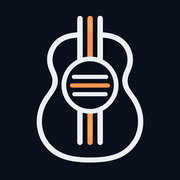
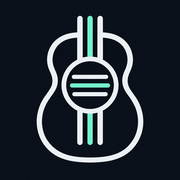
色を青とミントグリーンに変更し、ロゴの差し色も合わせる
- 背景を、紺の地に左上から青・右下からミントグリーンの光が差す固定の配色にする
  （曲ごとのサムネイルをぼかして敷く方式はやめる）
- 差し色をオレンジからミントグリーンに変更
- ロゴ（ホーム画面用・タブ用・ヘッダー）のオレンジの線をミントグリーンに描き替え

Changed region(s): [[0.4722, 0.0833, 0.5278, 0.3333], [0.3889, 0.4444, 0.6111, 0.5], [0.4722, 0.6111, 0.5278, 0.8056]]

diff --git a/index.html b/index.html
@@ -8,20 +8,20 @@
 <link rel="icon" type="image/png" sizes="32x32" href="favicon-32.png">
 <link rel="apple-touch-icon" href="apple-touch-icon.png">
 <link rel="manifest" href="manifest.webmanifest">
-<meta name="theme-color" content="#0A0E15">
+<meta name="theme-color" content="#08111F">
 <meta name="color-scheme" content="dark">
 <link rel="preconnect" href="https://fonts.googleapis.com">
 <link rel="preconnect" href="https://fonts.gstatic.com" crossorigin>
 <link rel="stylesheet" href="https://fonts.googleapis.com/css2?family=Figtree:wght@500;600;700;800&family=Zen+Kaku+Gothic+New:wght@500;700;900&display=swap">
 <style>
 /* 見た目の方針: 音楽プレーヤーのような暗い画面。主役は大きく太い歌詞で、ほかは静かにする。
-   背景には曲ごとに動画のサムネイルをぼかして敷き、曲で色味が変わる。色はロゴの紺・白・オレンジ。
+   背景は紺の地に、左上から青、右下からミントグリーンの光。差し色もミントグリーンで、ロゴと同じ色。
    layout: 左(スマホは上)=TAB譜つきYouTube動画と再生操作、右(スマホは下)=動画に同期して流れる歌詞と訳 */
 :root{
-  --bg:#0A0E15; --fg:#F3F5F8; --dim:rgba(243,245,248,.64); --faint:rgba(243,245,248,.4);
+  --bg:#08111F; --fg:#F3F5F8; --dim:rgba(243,245,248,.64); --faint:rgba(243,245,248,.4);
   --glass:rgba(255,255,255,.08); --glass2:rgba(255,255,255,.15); --line:rgba(255,255,255,.14);
-  --accent:#FF9D5C; --on-accent:#22130A; --accent-soft:rgba(255,157,92,.16); --danger:#FF8A80;
-  --sheet:#141A24; /* ダイアログなど、背景を透かさない面 */
+  --accent:#74F2CE; --on-accent:#06221A; --accent-soft:rgba(116,242,206,.16); --danger:#FF8A80;
+  --sheet:#0F1A2B; /* ダイアログなど、背景を透かさない面 */
   --cap-bg:#05070A; --cap-fg:#FFFFFF; --cap-dim:#C3CAD2; /* 字幕風の帯 */
   --muted:var(--dim); --surface:var(--sheet); --sunk:#05070A; --mark:var(--accent); --now:var(--accent); --now-soft:var(--accent-soft); --on-now:var(--on-accent);
   --f:"Figtree","Zen Kaku Gothic New","Hiragino Sans","Noto Sans JP",system-ui,sans-serif;
@@ -33,10 +33,8 @@
 html,body{height:100%;margin:0}
 html{overflow:hidden}
 body{display:flex;flex-direction:column;height:100dvh;background:var(--bg);color:var(--fg);font-family:var(--f);font-size:15px;line-height:1.5;overflow:hidden;-webkit-font-smoothing:antialiased}
-#bgart{position:fixed;inset:0;z-index:-2;overflow:hidden;opacity:0;transition:opacity .8s;pointer-events:none}
-#bgart::before{content:"";position:absolute;inset:-14%;background:var(--art,none) center/cover no-repeat;filter:blur(70px) saturate(1.6)}
-#bgart.on{opacity:.6}
-body::before{content:"";position:fixed;inset:0;z-index:-1;background:linear-gradient(180deg,rgba(10,14,21,.5),rgba(10,14,21,.84));pointer-events:none}
+#bgart{position:fixed;inset:0;z-index:-2;pointer-events:none;background:radial-gradient(70% 60% at 8% 0%,#2E6BFF 0%,rgba(46,107,255,0) 70%),radial-gradient(70% 60% at 96% 100%,#3EE6BE 0%,rgba(62,230,190,0) 70%),var(--bg)}
+body::before{content:"";position:fixed;inset:0;z-index:-1;background:linear-gradient(180deg,rgba(8,14,26,.42),rgba(8,14,26,.62));pointer-events:none}
 button,select,input,textarea{font:inherit;color:inherit}
 :focus-visible{outline:2px solid var(--accent);outline-offset:2px}
 .sr{position:absolute;width:1px;height:1px;overflow:hidden;clip-path:inset(50%);white-space:nowrap}
@@ -305,14 +303,14 @@ body.immersive.compact #list{text-align:center;padding-inline:52px;padding-block
   .syncbar .row .btn:not(#tapBtn){padding:6px 9px;font-size:.85rem}
   .fields{grid-template-columns:minmax(0,1fr)}
 }
-@media (prefers-reduced-motion:reduce){.row-l,#bgart,#playBtn,.btn{transition:none}}
+@media (prefers-reduced-motion:reduce){.row-l,#playBtn,.btn{transition:none}}
 </style>
 </head>
 <body>
 <div id="bgart" aria-hidden="true"></div>
 
 <header class="top">
-  <span class="brand"><svg viewBox="0 0 64 64" aria-hidden="true"><rect width="64" height="64" rx="14" fill="#0B111B"/><circle cx="32" cy="32" r="18.5" fill="none" stroke="#E7ECF1" stroke-width="5"/><path d="M23 23h18M23 41h18" fill="none" stroke="#E7ECF1" stroke-width="5" stroke-linecap="round"/><path d="M21 32h22" fill="none" stroke="#FF9D5C" stroke-width="5" stroke-linecap="round"/></svg>弾き語りプロンプター</span>
+  <span class="brand"><svg viewBox="0 0 64 64" aria-hidden="true"><rect width="64" height="64" rx="14" fill="#0B111B"/><circle cx="32" cy="32" r="18.5" fill="none" stroke="#E7ECF1" stroke-width="5"/><path d="M23 23h18M23 41h18" fill="none" stroke="#E7ECF1" stroke-width="5" stroke-linecap="round"/><path d="M21 32h22" fill="none" stroke="#74F2CE" stroke-width="5" stroke-linecap="round"/></svg>弾き語りプロンプター</span>
   <select id="songSel" aria-label="曲を選ぶ"></select>
   <span class="sp"></span>
   <button class="btn" id="editBtn" type="button">編集</button>
@@ -704,9 +702,8 @@ function load(song) {
   $('songSel').value = song ? song.id : ''; $('editBtn').disabled = !song;
   renderList(); updateLoopUi();
   $('npTitle').textContent = song ? (song.title || '無題') : '曲を追加してください'; $('npArtist').textContent = song ? (song.artist || '') : '';
-  const thumb = song && song.vid ? 'https://i.ytimg.com/vi/' + song.vid + '/mqdefault.jpg' : ''; // 動画のサムネイルを、曲名の横と背景のぼかしに使う
+  const thumb = song && song.vid ? 'https://i.ytimg.com/vi/' + song.vid + '/mqdefault.jpg' : ''; // 動画のサムネイルを曲名の横に出す
   $('art').hidden = !thumb; if (thumb) $('art').src = thumb; else $('art').removeAttribute('src');
-  $('bgart').style.setProperty('--art', thumb ? 'url("' + thumb + '")' : 'none'); $('bgart').classList.toggle('on', !!thumb);
   $('tCur').textContent = '0:00'; $('seekBar').value = '0'; $('seekBar').style.setProperty('--pct', '0%');
   if (!song) {
     pauseV(); wantVid = '';
